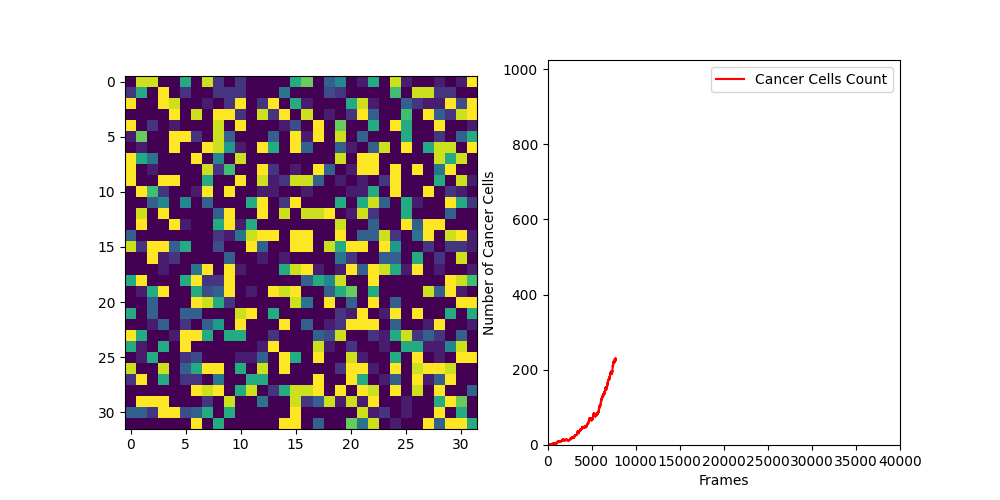
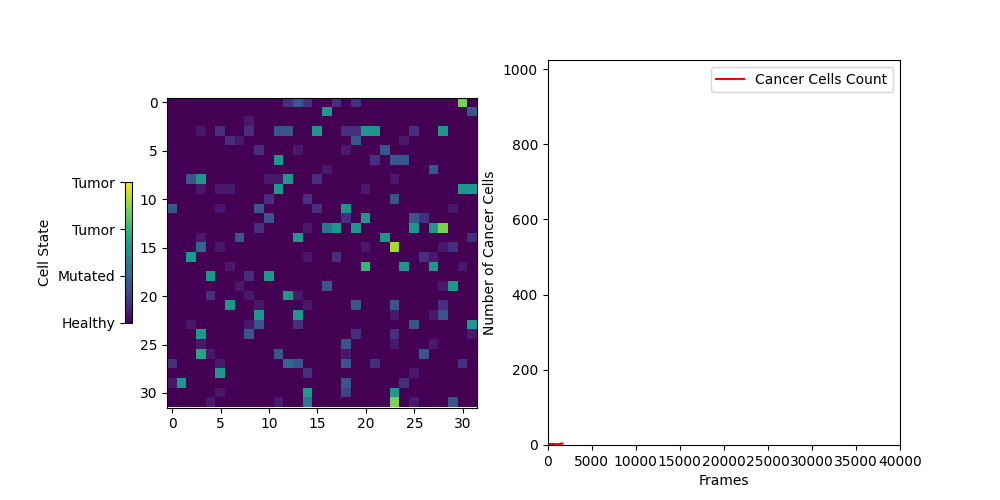
new push

Changed region(s): [[0.031, 0.15, 0.496, 0.9], [0.589, 0.72, 0.62, 0.84], [0.558, 0.84, 0.589, 0.9]]

diff --git a/population.py b/population.py
@@ -1,25 +1,28 @@
 # population.py
 
 import numpy as np
-from config import N, tumor_size, grid_size, a, b, c, d, m
+from config import N, tumor_size, grid_size, a, b, c, d, m, immunotherapy_interval, immunotherapy_kill_fraction
 from fitness import fitness
 
 def initialize_population():
     population = np.zeros((grid_size, grid_size), dtype=int)
     # Introduce a small tumor at a random location
-    random_xs = np.random.choice(range(grid_size - tumor_size + 1), size=2, replace=False)
-    random_ys = np.random.choice(range(grid_size - tumor_size + 1), size=2, replace=False)
+    random_xs = np.random.choice(range(grid_size - tumor_size + 1), size=1, replace=False)
+    random_ys = np.random.choice(range(grid_size - tumor_size + 1), size=1, replace=False)
 
+    print(random_xs)
     for random_x, random_y in zip(random_xs, random_ys):
-        population[random_x:random_x + tumor_size, random_y:random_y + tumor_size] = np.random.randint(12,16)
+        population[random_x:random_x + tumor_size, random_y:random_y + tumor_size] = 16
+
+    print(population)
     return population
 
 def mutate(cell):
     flip_idx = np.random.randint(4)
     return cell ^ (1 << flip_idx)
 
-def update_population(pop):
-    i = (pop >= 11).sum()  # Count of cancer cells
+def update_population(pop, frame):
+    i = (pop > 11).sum()  # Count of cancer cells
     
     if i == 0:
         return pop  # If no cancer cells, return early
@@ -35,12 +38,22 @@ def update_population(pop):
 
     # Mutation
     if np.random.rand() < m:
-        healthy_indices = np.argwhere(pop < 11)
+        healthy_indices = np.argwhere(pop < 12)
         if healthy_indices.size > 0:
             x, y = healthy_indices[np.random.choice(len(healthy_indices))]
             pop[x, y] = mutate(pop[x, y])  
 
     random_number = np.random.rand()
+
+    # Immunotherapy: Kill cancer cells at regular intervals
+    if frame % immunotherapy_interval == 0 and frame > 0:
+        cancer_indices = np.argwhere(pop > 11)
+        if cancer_indices.size > 0:
+            num_to_kill = int(len(cancer_indices) * immunotherapy_kill_fraction)
+            indices_to_kill = np.random.choice(len(cancer_indices), num_to_kill, replace=False)
+            for idx in indices_to_kill:
+                x, y = cancer_indices[idx]
+                pop[x, y] = 0  # Kill cancer cell
 
     # Cancer cell stay the same
     if random_number > P_birth_C + P_death_C:
@@ -49,7 +62,7 @@ def update_population(pop):
     # Cancer cell either dies or gives birth
     else:
         # Get all cancer indices
-        cancer_indices = np.argwhere(pop > 10)
+        cancer_indices = np.argwhere(pop > 11)
         if cancer_indices.size > 0:
 
             #Get the cancer cell
@@ -58,11 +71,15 @@ def update_population(pop):
 
             # Cancer cell births
             if random_number <= P_birth_C: 
-                healty_indices = np.argwhere(pop <= 11)      
-                new_cell = np.random.choice(len(healty_indices))
-                x,y = healty_indices[new_cell].tolist()
-                pop[x,y] = np.random.randint(12,16)  
-            
+                healthy_indices = np.argwhere(pop < 12)   
+
+                if len(healthy_indices) > 0:
+                    new_cell = np.random.choice(len(healthy_indices))
+                    x,y = healthy_indices[new_cell].tolist()
+                    pop[x,y] = np.random.randint(12,16) 
+                else:
+                    return pop
+             
             # Cancer cell dies
             else:
                 pop[x, y] = 0

diff --git a/animation.py b/animation.py
@@ -10,17 +10,30 @@ def create_animation(population):
     fig, (ax1, ax2) = plt.subplots(1, 2, figsize=(10, 5))  # 1 row, 2 columns
 
     # Create initial images for the first plot (population grid)
-    im1 = ax1.imshow(population, cmap='viridis', interpolation='nearest')
+    im1 = ax1.imshow(population, cmap='viridis', interpolation='nearest', vmin=0, vmax=15)
 
     # Setup for the second plot (number of cancer cells over time)
     ax2.set_xlabel('Frames')
     ax2.set_ylabel('Number of Cancer Cells')
     ax2.set_xlim(0, T)
     ax2.set_ylim(0, N)
+    ax2.set_xticks(np.arange(0, T+1, 5000))  # or choose another interval if needed
+    ax2.set_xticklabels([f"{x/10000:.1f}" for x in np.arange(0, T+1, 5000)])
+    ax2.set_xlabel(r'Frames($\times 10^4$)')
 
     cancer_counts = []  # List to store number of cancer cells at each frame
     line, = ax2.plot([], [], label="Cancer Cells Count", color='red')
     ax2.legend()
+
+
+    # Colorbar to represent different cell states
+    cbar = fig.colorbar(im1, ax=ax1, orientation='vertical', location='left', fraction=0.02, pad=0.1)
+    cbar.set_label('Cell State')
+    
+    # You can customize the ticks and labels on the colorbar if needed
+    cbar.set_ticks([0, 5, 10, 15])
+    cbar.set_ticklabels(['Healthy', 'Mutated', 'Tumor', 'Tumor'])
+    plt.savefig('initial_population.png')
 
     # Initialize function to set the first frame of both plots
     def init():
@@ -31,16 +44,18 @@ def create_animation(population):
     # Update function to modify both plots
     def update(frame):
         nonlocal population
-        population[:] = update_population(population)  # Update the population
+        population[:] = update_population(population, frame)  # Update the population
 
-        # Update the first plot (population grid)
         im1.set_array(population)
 
         # Count the number of cancer cells (number of 1s in population)
         num_cancer_cells = np.sum(population >= 11)
-        cancer_counts.append(num_cancer_cells)  # Append the count of cancer cells
+        cancer_counts.append(num_cancer_cells) 
 
-        line.set_data(range(len(cancer_counts)), cancer_counts)  # Update the line data
+        line.set_data(range(len(cancer_counts)), cancer_counts) 
+
+        if frame % 5000 == 0: 
+            plt.savefig(f'population_frame_{frame}.png')
 
         return im1, line 
 

diff --git a/config.py b/config.py
@@ -2,13 +2,13 @@
 import math
 
 # Number of possible cells in the grid
-N = 1024  
+N = 1200  
 
 # Grid size
 grid_size = math.floor(math.sqrt(N))
 
 # Initial tumor size
-tumor_size = 1
+tumor_size = 4
 
 # Selection pressure
 w = 0.5  
@@ -21,3 +21,9 @@ T = 40000
 
 # Payoff matrix for Prisoner's Dilemma
 a, b, c, d = 3, 0, 5, 1
+
+# Interval for immunotherapy (in frames)
+immunotherapy_interval = 5000 
+
+# Fraction of cancer cells to kill during immunotherapy
+immunotherapy_kill_fraction = 0.2  
